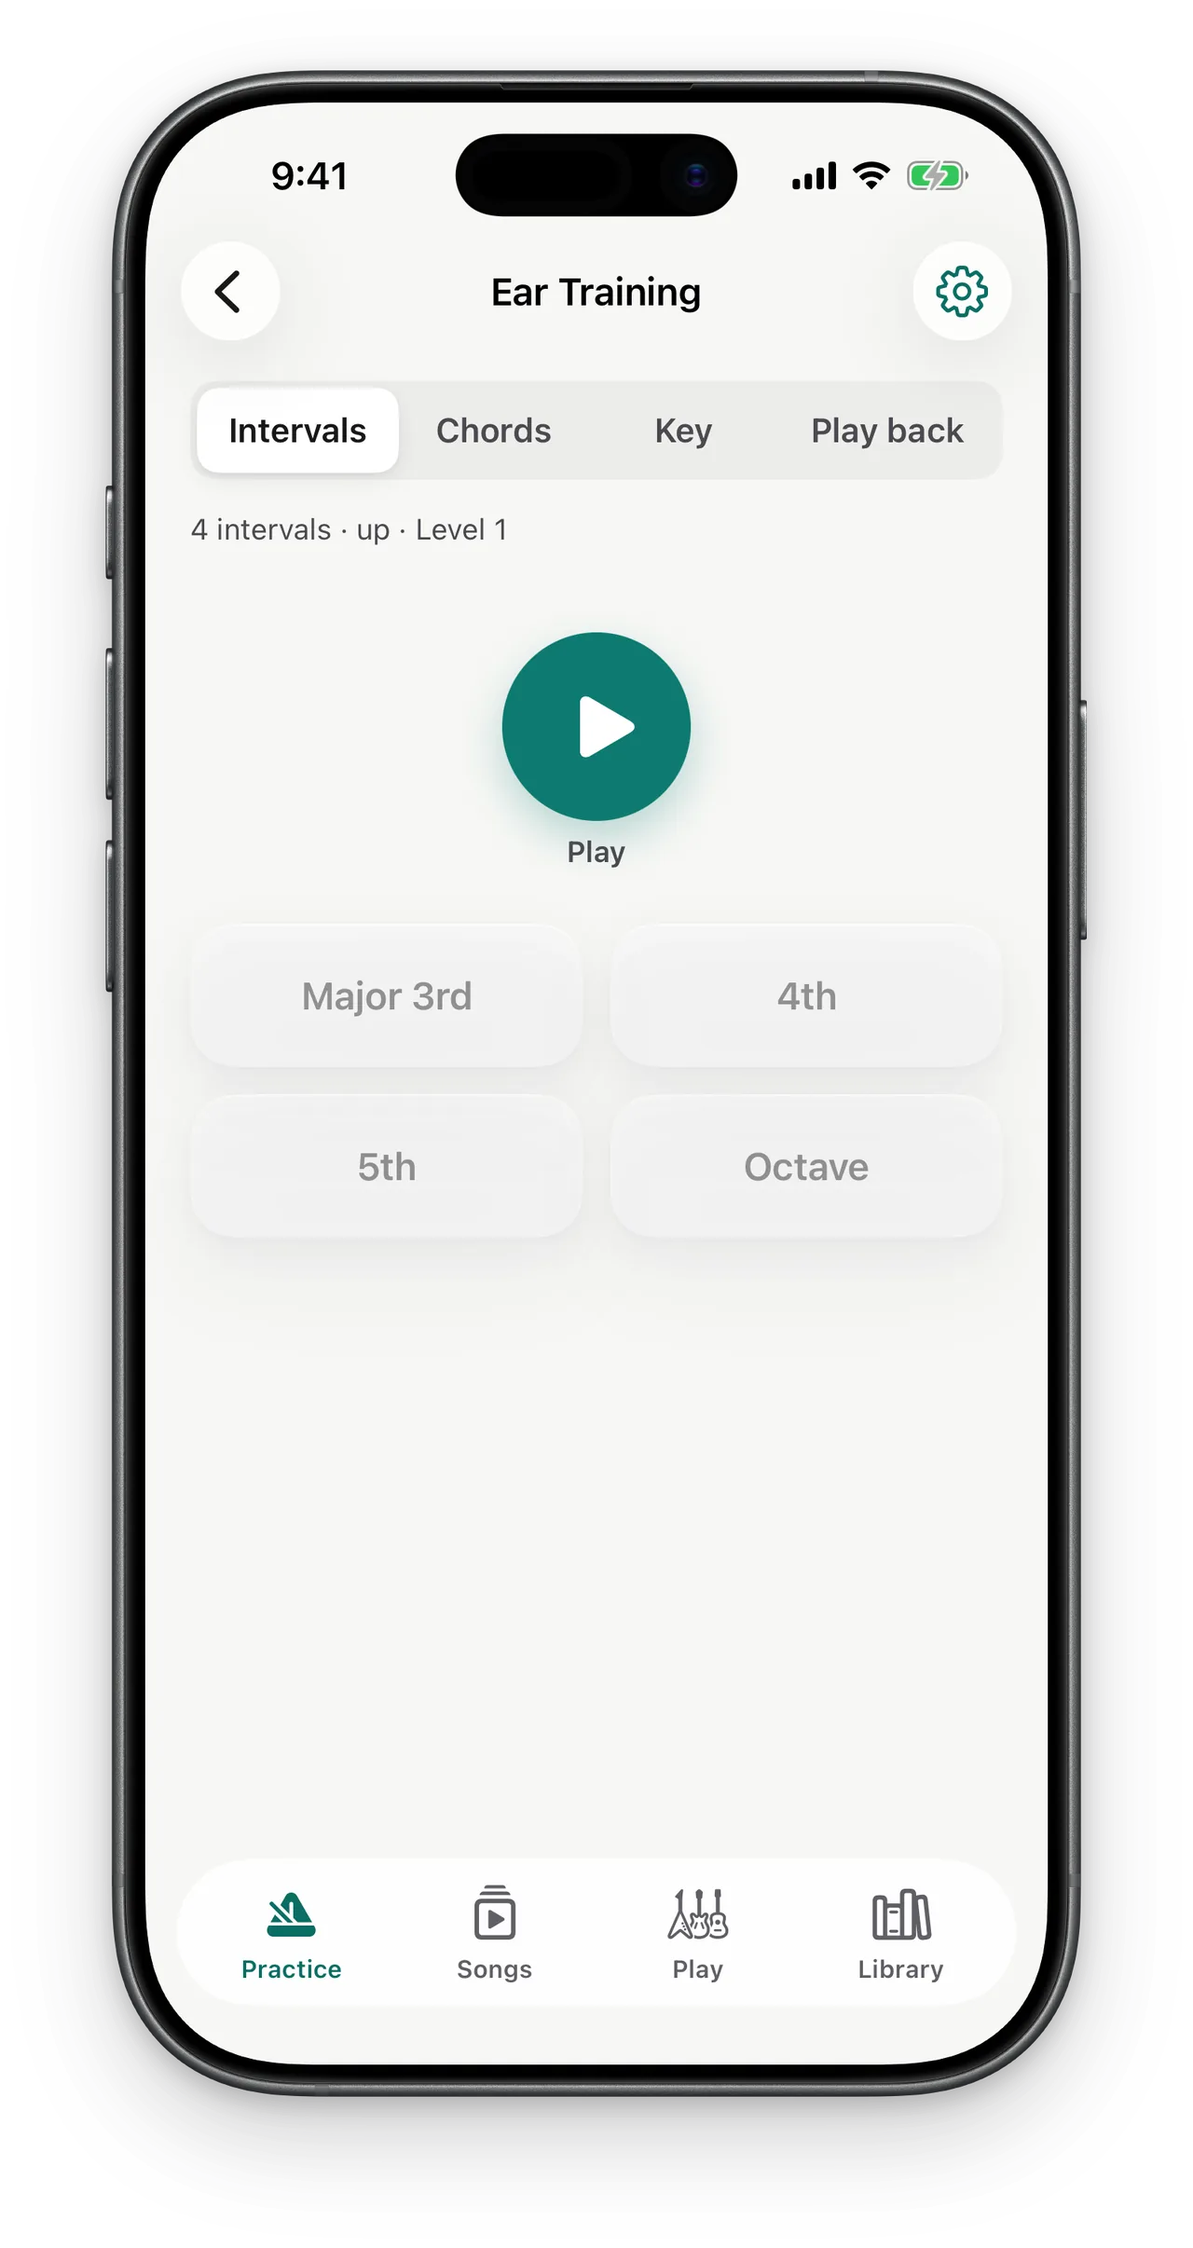
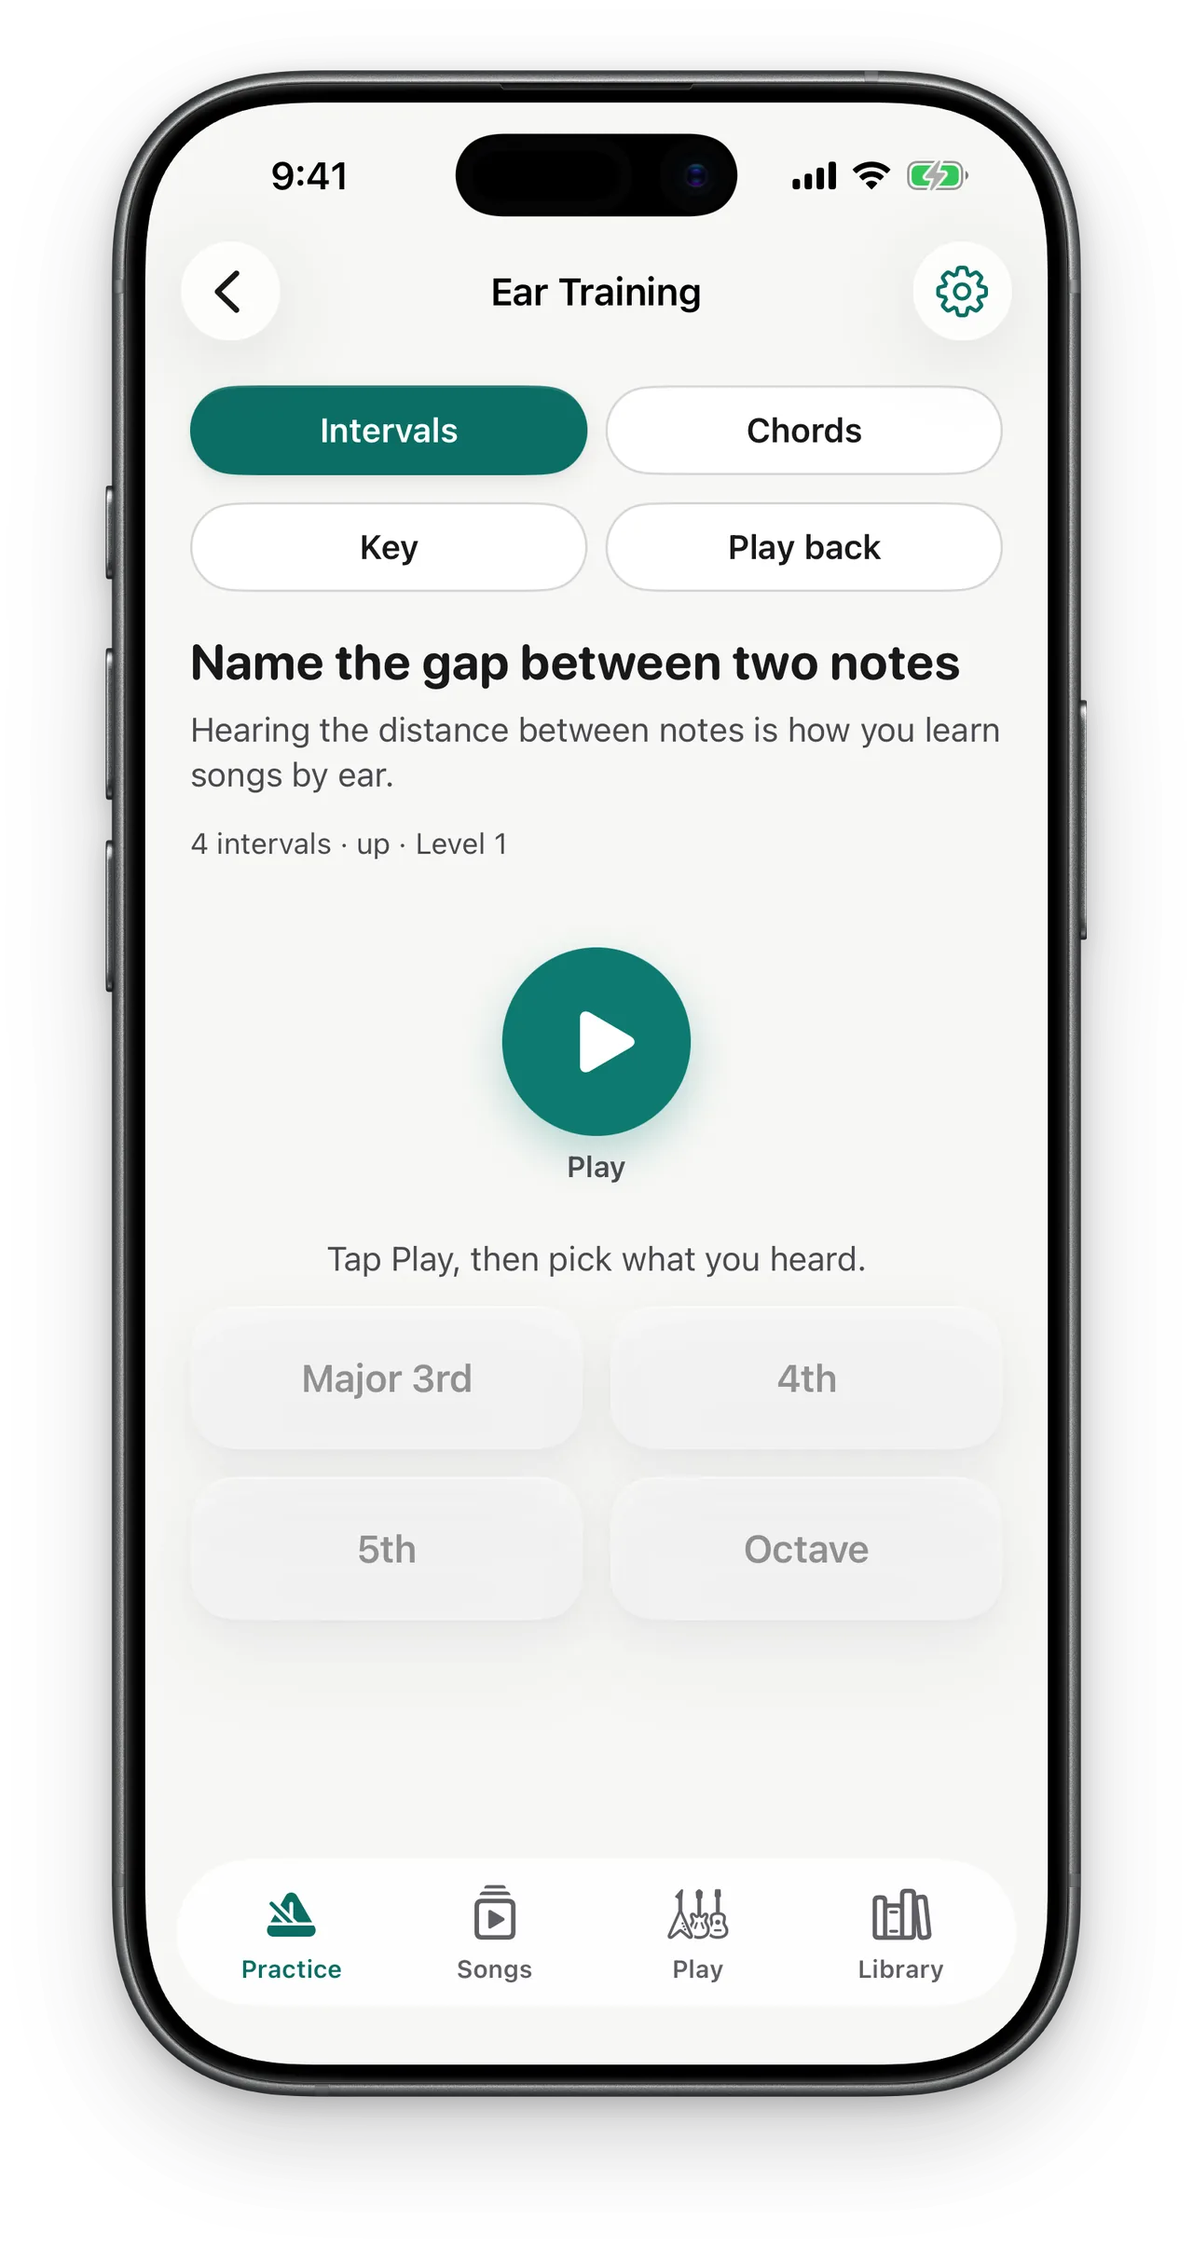
Refresh app screenshots (pill chips, new Library and Drills)
Claude-Session: https://claude.ai/code/session_018UT3pei8Wwk52w3BySMxhU

diff --git a/index.html b/index.html
@@ -35,7 +35,7 @@
 <header class="site-header" id="top">
   <div class="wrap">
     <a class="brand" href="/" aria-label="ToneHub home">
-      <img src="assets/brand/icon-512.webp?v=4b250239" alt="" width="32" height="32">
+      <img src="assets/brand/icon-512.webp?v=1df4ff29" alt="" width="32" height="32">
       ToneHub
     </a>
     <nav class="nav" aria-label="Main">
@@ -64,10 +64,10 @@
       <div class="hero-art">
         <div class="hero-glow" aria-hidden="true"></div>
         <div class="phone front">
-          <img src="assets/shots/songs.webp?v=4b250239" srcset="assets/shots/songs.webp?v=4b250239 640w, assets/shots/songs@2x.webp?v=4b250239 1280w" sizes="(min-width: 900px) 316px, 58vw" width="640" height="1206" alt="The Songs screen in ToneHub: a What's Playing? card to listen and match a tone, a search field for songs or YouTube, Recent songs with a saved tone, and songs to start with." fetchpriority="high">
+          <img src="assets/shots/songs.webp?v=1df4ff29" srcset="assets/shots/songs.webp?v=1df4ff29 640w, assets/shots/songs@2x.webp?v=1df4ff29 1280w" sizes="(min-width: 900px) 316px, 58vw" width="640" height="1206" alt="The Songs screen in ToneHub: a What's Playing? card to listen and match a tone, a search field for songs or YouTube, Recent songs with a saved tone, and songs to start with." fetchpriority="high">
         </div>
         <div class="phone back">
-          <img src="assets/shots/result.webp?v=4b250239" srcset="assets/shots/result.webp?v=4b250239 640w, assets/shots/result@2x.webp?v=4b250239 1280w" sizes="(min-width: 900px) 272px, 50vw" width="640" height="1206" alt="A match result for Everlong: Gain 7.5, Bass 6, Mid 4.5 and Treble 6.5, with a Close match badge.">
+          <img src="assets/shots/result.webp?v=1df4ff29" srcset="assets/shots/result.webp?v=1df4ff29 640w, assets/shots/result@2x.webp?v=1df4ff29 1280w" sizes="(min-width: 900px) 272px, 50vw" width="640" height="1206" alt="A match result for Everlong: Gain 7.5, Bass 6, Mid 4.5 and Treble 6.5, with a Close match badge.">
         </div>
       </div>
     </div>
@@ -87,77 +87,77 @@
       <div class="carousel" role="region" aria-roledescription="carousel" aria-label="ToneHub features">
         <ul class="car-track" tabindex="0" aria-label="Features. Use the arrow keys to move between slides.">
           <li class="slide" id="f-songs" data-group="match" role="group" aria-roledescription="slide" aria-label="1 of 15: What&#39;s playing?">
-            <div class="phone"><img src="assets/shots/songs.webp?v=4b250239" srcset="assets/shots/songs.webp?v=4b250239 640w, assets/shots/songs@2x.webp?v=4b250239 1280w" sizes="276px" width="640" height="1206"  alt="The Songs screen: a What's Playing? card to listen and match a tone, a search field for songs or YouTube, and Recent songs, one with a saved tone."></div>
+            <div class="phone"><img src="assets/shots/songs.webp?v=1df4ff29" srcset="assets/shots/songs.webp?v=1df4ff29 640w, assets/shots/songs@2x.webp?v=1df4ff29 1280w" sizes="276px" width="640" height="1206"  alt="The Songs screen: a What's Playing? card to listen and match a tone, a search field for songs or YouTube, and Recent songs, one with a saved tone."></div>
             <h3>What's playing?</h3>
             <p>Let it listen, or use a file.</p>
           </li>
           <li class="slide" id="f-listen" data-group="match" role="group" aria-roledescription="slide" aria-label="2 of 15: Just let it listen">
-            <div class="phone"><img src="assets/shots/listen.webp?v=4b250239" srcset="assets/shots/listen.webp?v=4b250239 640w, assets/shots/listen@2x.webp?v=4b250239 1280w" sizes="276px" width="640" height="1206"  alt="The What's Playing? screen: play the song out loud with the phone near the speaker, a Start listening button and a Use a file link."></div>
+            <div class="phone"><img src="assets/shots/listen.webp?v=1df4ff29" srcset="assets/shots/listen.webp?v=1df4ff29 640w, assets/shots/listen@2x.webp?v=1df4ff29 1280w" sizes="276px" width="640" height="1206"  alt="The What's Playing? screen: play the song out loud with the phone near the speaker, a Start listening button and a Use a file link."></div>
             <h3>Just let it listen</h3>
             <p>Hold your phone near the speaker.</p>
           </li>
           <li class="slide" id="f-result" data-group="match" role="group" aria-roledescription="slide" aria-label="3 of 15: Your amp, dialed in">
-            <div class="phone"><img src="assets/shots/result.webp?v=4b250239" srcset="assets/shots/result.webp?v=4b250239 640w, assets/shots/result@2x.webp?v=4b250239 1280w" sizes="276px" width="640" height="1206"  alt="A match result: Gain 7.5, Bass 6, Mid 4.5 and Treble 6.5, a Close match badge, Hear it, and What we heard versus Your tone."></div>
+            <div class="phone"><img src="assets/shots/result.webp?v=1df4ff29" srcset="assets/shots/result.webp?v=1df4ff29 640w, assets/shots/result@2x.webp?v=1df4ff29 1280w" sizes="276px" width="640" height="1206"  alt="A match result: Gain 7.5, Bass 6, Mid 4.5 and Treble 6.5, a Close match badge, Hear it, and What we heard versus Your tone."></div>
             <h3>Your amp, dialed in</h3>
             <p>Settings in your amp's own knobs.</p>
           </li>
           <li class="slide" id="f-song" data-group="learn" role="group" aria-roledescription="slide" aria-label="4 of 15: One page per song">
-            <div class="phone"><img src="assets/shots/song.webp?v=4b250239" srcset="assets/shots/song.webp?v=4b250239 640w, assets/shots/song@2x.webp?v=4b250239 1280w" sizes="276px" width="640" height="1206"  alt="A song page for Everlong with a preview, Match this song, Practice, the saved Main riff tone, and Tuner, Key and Tabs rows."></div>
+            <div class="phone"><img src="assets/shots/song.webp?v=1df4ff29" srcset="assets/shots/song.webp?v=1df4ff29 640w, assets/shots/song@2x.webp?v=1df4ff29 1280w" sizes="276px" width="640" height="1206"  alt="A song page for Everlong with a preview, Match this song, Practice, the saved Main riff tone, and Tuner, Key and Tabs rows."></div>
             <h3>One page per song</h3>
             <p>Tuning, key, tempo and tabs.</p>
           </li>
           <li class="slide" id="f-playalong" data-group="learn" role="group" aria-roledescription="slide" aria-label="5 of 15: Play along, slow it down">
-            <div class="phone"><img src="assets/shots/playalong.webp?v=4b250239" srcset="assets/shots/playalong.webp?v=4b250239 640w, assets/shots/playalong@2x.webp?v=4b250239 1280w" sizes="276px" width="640" height="1206" loading="lazy" alt="Practice mode with the song's YouTube video, your saved tone, Loop a part, and speed buttons for 0.5×, 0.75× and 1×."></div>
+            <div class="phone"><img src="assets/shots/playalong.webp?v=1df4ff29" srcset="assets/shots/playalong.webp?v=1df4ff29 640w, assets/shots/playalong@2x.webp?v=1df4ff29 1280w" sizes="276px" width="640" height="1206" loading="lazy" alt="Practice mode with the song's YouTube video, your saved tone, Loop a part, and speed buttons for 0.5×, 0.75× and 1×."></div>
             <h3>Play along, slow it down</h3>
             <p>Loop a part at 0.5× or 0.75×.</p>
           </li>
           <li class="slide" id="f-tabs" data-group="learn" role="group" aria-roledescription="slide" aria-label="6 of 15: Tabs in one tap">
-            <div class="phone"><img src="assets/shots/tabs.webp?v=4b250239" srcset="assets/shots/tabs.webp?v=4b250239 640w, assets/shots/tabs@2x.webp?v=4b250239 1280w" sizes="276px" width="640" height="1206" loading="lazy" alt="The Tabs sheet with Songsterr, Ultimate Guitar and a YouTube guitar lesson."></div>
+            <div class="phone"><img src="assets/shots/tabs.webp?v=1df4ff29" srcset="assets/shots/tabs.webp?v=1df4ff29 640w, assets/shots/tabs@2x.webp?v=1df4ff29 1280w" sizes="276px" width="640" height="1206" loading="lazy" alt="The Tabs sheet with Songsterr, Ultimate Guitar and a YouTube guitar lesson."></div>
             <h3>Tabs in one tap</h3>
             <p>Songsterr, Ultimate Guitar and lessons.</p>
           </li>
           <li class="slide" id="f-play" data-group="play" role="group" aria-roledescription="slide" aria-label="7 of 15: Plug in and play">
-            <div class="phone"><img src="assets/shots/play.webp?v=4b250239" srcset="assets/shots/play.webp?v=4b250239 640w, assets/shots/play@2x.webp?v=4b250239 1280w" sizes="276px" width="640" height="1206" loading="lazy" alt="The Play screen: ToneHub's amp set to Clean with Gain, Bass, Mid and Treble knobs, plus Tuner and Effects."></div>
+            <div class="phone"><img src="assets/shots/play.webp?v=1df4ff29" srcset="assets/shots/play.webp?v=1df4ff29 640w, assets/shots/play@2x.webp?v=1df4ff29 1280w" sizes="276px" width="640" height="1206" loading="lazy" alt="The Play screen: ToneHub's amp set to Clean with Gain, Bass, Mid and Treble knobs, plus Tuner and Effects."></div>
             <h3>Plug in and play</h3>
             <p>A real amp, right on your iPhone.</p>
           </li>
           <li class="slide" id="f-effects" data-group="play" role="group" aria-roledescription="slide" aria-label="8 of 15: A full pedalboard">
-            <div class="phone"><img src="assets/shots/effects.webp?v=4b250239" srcset="assets/shots/effects.webp?v=4b250239 640w, assets/shots/effects@2x.webp?v=4b250239 1280w" sizes="276px" width="640" height="1206" loading="lazy" alt="The Effects screen with presets on top and Compressor and Chorus switched on, each with its own knobs."></div>
+            <div class="phone"><img src="assets/shots/effects.webp?v=1df4ff29" srcset="assets/shots/effects.webp?v=1df4ff29 640w, assets/shots/effects@2x.webp?v=1df4ff29 1280w" sizes="276px" width="640" height="1206" loading="lazy" alt="The Effects screen with presets on top and Compressor and Chorus switched on, each with its own knobs."></div>
             <h3>A full pedalboard</h3>
             <p>Compressor, drive, chorus, delay, reverb.</p>
           </li>
           <li class="slide" id="f-tuner" data-group="practice" role="group" aria-roledescription="slide" aria-label="9 of 15: Tune up fast">
-            <div class="phone"><img src="assets/shots/tuner.webp?v=4b250239" srcset="assets/shots/tuner.webp?v=4b250239 640w, assets/shots/tuner@2x.webp?v=4b250239 1280w" sizes="276px" width="640" height="1206" loading="lazy" alt="The tuner in standard tuning, with Capo and Strobe options, a needle gauge and the six strings."></div>
+            <div class="phone"><img src="assets/shots/tuner.webp?v=1df4ff29" srcset="assets/shots/tuner.webp?v=1df4ff29 640w, assets/shots/tuner@2x.webp?v=1df4ff29 1280w" sizes="276px" width="640" height="1206" loading="lazy" alt="The tuner in standard tuning, with Capo and Strobe options, a needle gauge and the six strings."></div>
             <h3>Tune up fast</h3>
             <p>Strobe, capo and alternate tunings.</p>
           </li>
           <li class="slide" id="f-metronome" data-group="practice" role="group" aria-roledescription="slide" aria-label="10 of 15: Keep perfect time">
-            <div class="phone"><img src="assets/shots/metronome.webp?v=4b250239" srcset="assets/shots/metronome.webp?v=4b250239 640w, assets/shots/metronome@2x.webp?v=4b250239 1280w" sizes="276px" width="640" height="1206" loading="lazy" alt="The metronome at 120 BPM with four beats, Tap tempo and a Start button."></div>
+            <div class="phone"><img src="assets/shots/metronome.webp?v=1df4ff29" srcset="assets/shots/metronome.webp?v=1df4ff29 640w, assets/shots/metronome@2x.webp?v=1df4ff29 1280w" sizes="276px" width="640" height="1206" loading="lazy" alt="The metronome at 120 BPM with four beats, Tap tempo and a Start button."></div>
             <h3>Keep perfect time</h3>
             <p>Tap tempo and accents.</p>
           </li>
           <li class="slide" id="f-looper" data-group="practice" role="group" aria-roledescription="slide" aria-label="11 of 15: Loop and layer">
-            <div class="phone"><img src="assets/shots/looper.webp?v=4b250239" srcset="assets/shots/looper.webp?v=4b250239 640w, assets/shots/looper@2x.webp?v=4b250239 1280w" sizes="276px" width="640" height="1206" loading="lazy" alt="The Looper: Make a loop, a record button, and a Free or Bars loop length."></div>
+            <div class="phone"><img src="assets/shots/looper.webp?v=1df4ff29" srcset="assets/shots/looper.webp?v=1df4ff29 640w, assets/shots/looper@2x.webp?v=1df4ff29 1280w" sizes="276px" width="640" height="1206" loading="lazy" alt="The Looper: Make a loop, a record button, and a Free or Bars loop length."></div>
             <h3>Loop and layer</h3>
             <p>Record a few bars, play over them.</p>
           </li>
           <li class="slide" id="f-recorder" data-group="practice" role="group" aria-roledescription="slide" aria-label="12 of 15: Record your takes">
-            <div class="phone"><img src="assets/shots/recorder.webp?v=4b250239" srcset="assets/shots/recorder.webp?v=4b250239 640w, assets/shots/recorder@2x.webp?v=4b250239 1280w" sizes="276px" width="640" height="1206" loading="lazy" alt="The Recorder with a Plug in to record card and a Connect button."></div>
+            <div class="phone"><img src="assets/shots/recorder.webp?v=1df4ff29" srcset="assets/shots/recorder.webp?v=1df4ff29 640w, assets/shots/recorder@2x.webp?v=1df4ff29 1280w" sizes="276px" width="640" height="1206" loading="lazy" alt="The Recorder with a Plug in to record card and a Connect button."></div>
             <h3>Record your takes</h3>
             <p>Every idea, saved.</p>
           </li>
           <li class="slide" id="f-fretboard" data-group="practice" role="group" aria-roledescription="slide" aria-label="13 of 15: Learn the fretboard">
-            <div class="phone"><img src="assets/shots/fretboard.webp?v=4b250239" srcset="assets/shots/fretboard.webp?v=4b250239 640w, assets/shots/fretboard@2x.webp?v=4b250239 1280w" sizes="276px" width="640" height="1206" loading="lazy" alt="The Fretboard in A minor pentatonic, position 1, with notes on the neck and Listen with the mic."></div>
+            <div class="phone"><img src="assets/shots/fretboard.webp?v=1df4ff29" srcset="assets/shots/fretboard.webp?v=1df4ff29 640w, assets/shots/fretboard@2x.webp?v=1df4ff29 1280w" sizes="276px" width="640" height="1206" loading="lazy" alt="The Fretboard in A minor pentatonic, position 1, with notes on the neck and Listen with the mic."></div>
             <h3>Learn the fretboard</h3>
             <p>Scales and shapes, all up the neck.</p>
           </li>
           <li class="slide" id="f-ear" data-group="practice" role="group" aria-roledescription="slide" aria-label="14 of 15: Train your ear">
-            <div class="phone"><img src="assets/shots/ear.webp?v=4b250239" srcset="assets/shots/ear.webp?v=4b250239 640w, assets/shots/ear@2x.webp?v=4b250239 1280w" sizes="276px" width="640" height="1206" loading="lazy" alt="Ear training on Intervals: a Play button and answers Major 3rd, 4th, 5th and Octave."></div>
+            <div class="phone"><img src="assets/shots/ear.webp?v=1df4ff29" srcset="assets/shots/ear.webp?v=1df4ff29 640w, assets/shots/ear@2x.webp?v=1df4ff29 1280w" sizes="276px" width="640" height="1206" loading="lazy" alt="Ear training on Intervals: a Play button and answers Major 3rd, 4th, 5th and Octave."></div>
             <h3>Train your ear</h3>
             <p>Intervals, chords and keys.</p>
           </li>
           <li class="slide" id="f-drills" data-group="practice" role="group" aria-roledescription="slide" aria-label="15 of 15: Technique drills">
-            <div class="phone"><img src="assets/shots/drills.webp?v=4b250239" srcset="assets/shots/drills.webp?v=4b250239 640w, assets/shots/drills@2x.webp?v=4b250239 1280w" sizes="276px" width="640" height="1206" loading="lazy" alt="The Drills list: Alternate picking, Legato, Bends, String skipping and Palm muting."></div>
+            <div class="phone"><img src="assets/shots/drills.webp?v=1df4ff29" srcset="assets/shots/drills.webp?v=1df4ff29 640w, assets/shots/drills@2x.webp?v=1df4ff29 1280w" sizes="276px" width="640" height="1206" loading="lazy" alt="The Drills list: Alternate picking, Legato, Bends, String skipping and Palm muting."></div>
             <h3>Technique drills</h3>
             <p>Picking, legato, bends and more.</p>
           </li>
@@ -200,7 +200,7 @@
         <div class="how-art">
           <div class="hero-glow" aria-hidden="true"></div>
           <div class="phone">
-            <img src="assets/shots/result-amp.webp?v=4b250239" srcset="assets/shots/result-amp.webp?v=4b250239 640w, assets/shots/result-amp@2x.webp?v=4b250239 1280w" sizes="(min-width: 900px) 306px, 70vw" width="640" height="1206" loading="lazy" alt="A match result for Everlong on a Katana 50: Amp Type Brown, Gain 3.5, Bass 6, Middle 4.5 and Treble 7, with suggested effects.">
+            <img src="assets/shots/result-amp.webp?v=1df4ff29" srcset="assets/shots/result-amp.webp?v=1df4ff29 640w, assets/shots/result-amp@2x.webp?v=1df4ff29 1280w" sizes="(min-width: 900px) 306px, 70vw" width="640" height="1206" loading="lazy" alt="A match result for Everlong on a Katana 50: Amp Type Brown, Gain 3.5, Bass 6, Middle 4.5 and Treble 7, with suggested effects.">
           </div>
         </div>
       </div>
@@ -247,7 +247,7 @@
 <footer class="site-footer">
   <div class="wrap">
     <div class="top">
-      <a class="brand" href="/" aria-label="ToneHub home"><img src="assets/brand/icon-512.webp?v=4b250239" alt="" width="32" height="32" loading="lazy">ToneHub</a>
+      <a class="brand" href="/" aria-label="ToneHub home"><img src="assets/brand/icon-512.webp?v=1df4ff29" alt="" width="32" height="32" loading="lazy">ToneHub</a>
       <ul class="footer-links">
         <li><a href="/privacy">Privacy Policy</a></li>
         <li><a href="/terms">Terms of Use</a></li>
